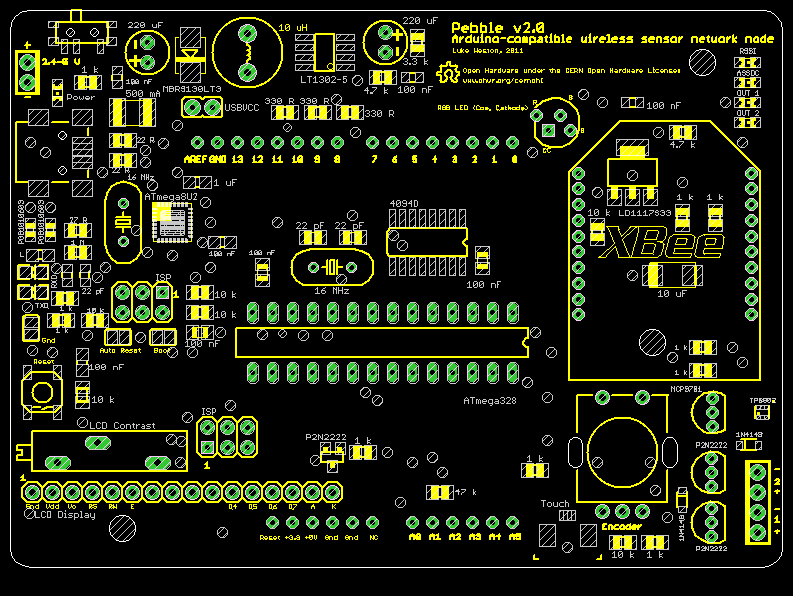
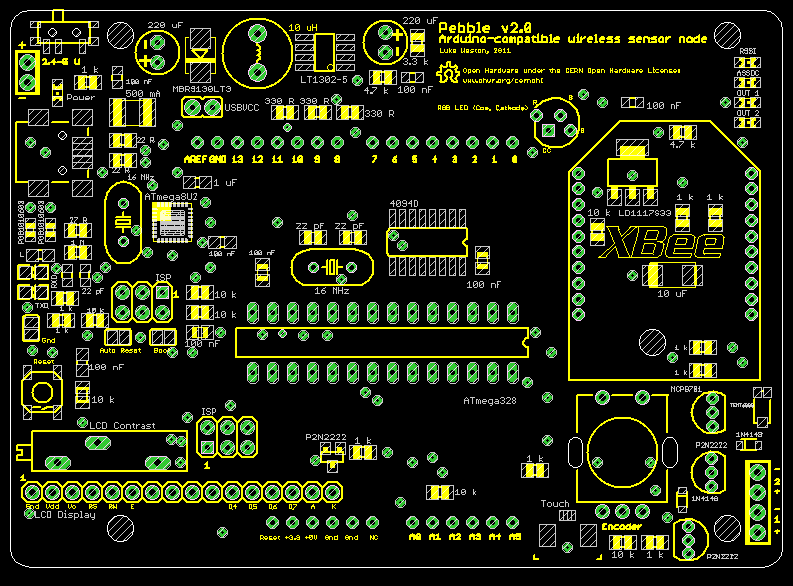
foo

Changed region(s): [[0.0, 0.0, 0.9987, 0.9829], [0.2724, 0.8908, 0.3026, 0.9215], [0.0, 0.9215, 0.0303, 0.9522]]

diff --git a/README.md b/README.md
@@ -23,7 +23,7 @@ D12: Open-collector transistor output 1. (Digital output)
 D13: Open-collector transistor output 2. (Digital output)
 
 A0: Temperature sensor (Analog input, MCP9701A)
-A1: Light sensor (Analog input, TPS852)
+A1: Light sensor (Analog input, TEMP6000)
 
 A2: Touchscreen pin 1. (Standard 4-wire Nintendo-style touchscreen.)
 A3: Touchscreen pin 2.
